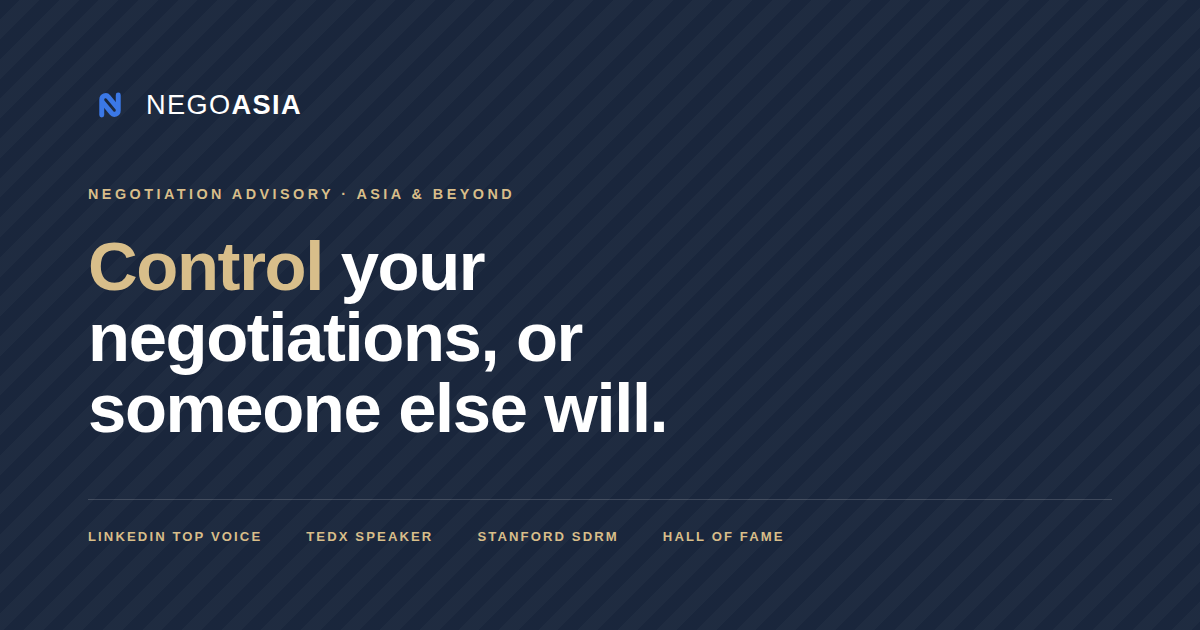
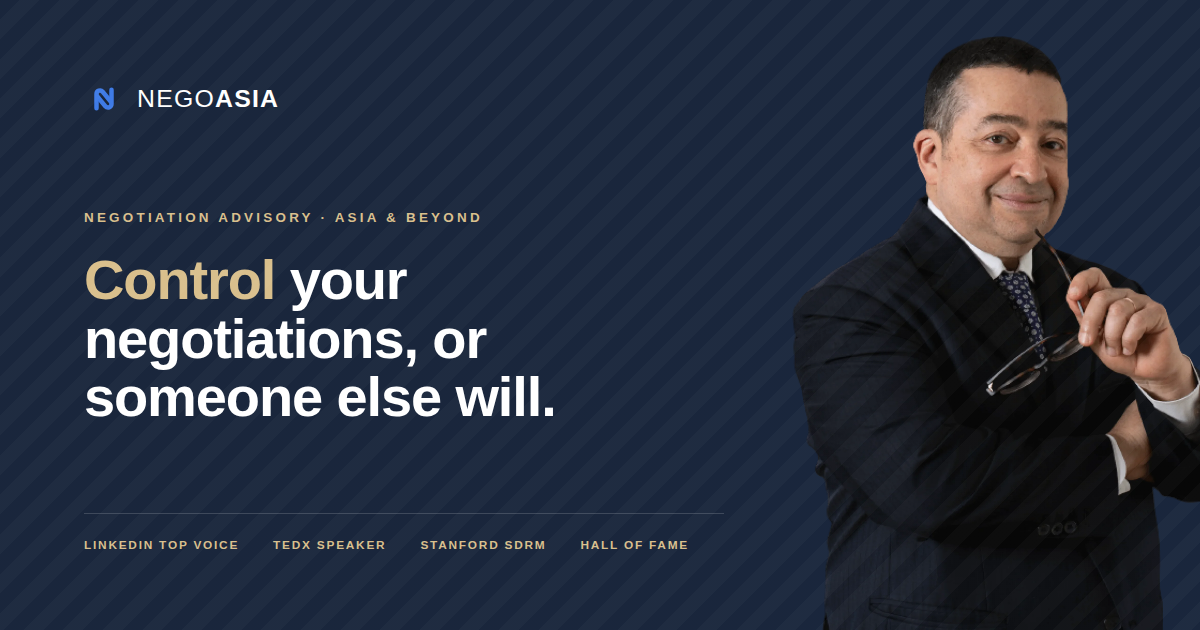
Put Nicolas's portrait on the site, move OG rendering to make_og.py

diff --git a/site/assets/css/site.css b/site/assets/css/site.css
@@ -504,3 +504,14 @@ footer{background:var(--slate-900);color:rgba(255,255,255,.7);padding:70px 0 34p
       height:1px;background:var(--gold)}
 .lang .soon{color:var(--muted);opacity:.45;cursor:default}
 @media (max-width:960px){ .lang{margin-left:auto;margin-right:.4rem} }
+
+/* ============================================================
+   Cut-out portrait. The file has a transparent background, so it
+   sits directly on the navy with no frame and no stripes — the
+   subject reads as grounded rather than pasted into a box.
+   ============================================================ */
+.photo.cutout{background:none;border:0;align-items:flex-end;justify-content:center;overflow:visible}
+.photo.cutout img{width:100%;height:100%;object-fit:contain;object-position:bottom center}
+/* Round author thumbnail: crop to the face, on a navy disc. */
+.author .photo.cutout{background:var(--slate-800);border:1px solid var(--line);overflow:hidden}
+.author .photo.cutout img{object-fit:cover;object-position:center}

diff --git a/site/management-tricks/index.html b/site/management-tricks/index.html
@@ -167,7 +167,7 @@
       </div>
 
       <div class="author">
-        <div class="photo"><div class="plabel"><b>Portrait</b><span>Nicolas Clement</span></div></div>
+        <div class="photo cutout"><img src="/assets/img/nicolas-portrait-square.webp" alt="Nicolas Clement" width="320" height="320" loading="lazy"></div>
         <div>
           <div class="author-name">Nicolas Clement</div>
           <p>Founder of NegoAsia and Global Head of the Negotiation Practice at Halifax Consulting. Thirty years of negotiations across Europe and Asia. LinkedIn Top Negotiation Voice, TEDx speaker, CEIBS visiting professor. <a href="/about/">Read the full story →</a></p>

diff --git a/site/never-take-yes-for-an-answer/index.html b/site/never-take-yes-for-an-answer/index.html
@@ -162,7 +162,7 @@
       </div>
 
       <div class="author">
-        <div class="photo"><div class="plabel"><b>Portrait</b><span>Nicolas Clement</span></div></div>
+        <div class="photo cutout"><img src="/assets/img/nicolas-portrait-square.webp" alt="Nicolas Clement" width="320" height="320" loading="lazy"></div>
         <div>
           <div class="author-name">Nicolas Clement</div>
           <p>Founder of NegoAsia and Global Head of the Negotiation Practice at Halifax Consulting. Thirty years of negotiations across Europe and Asia. LinkedIn Top Negotiation Voice, TEDx speaker, CEIBS visiting professor. <a href="/about/">Read the full story →</a></p>

diff --git a/site/tedx-nicolas-clement/index.html b/site/tedx-nicolas-clement/index.html
@@ -81,7 +81,7 @@
       </div>
 
       <div class="author">
-        <div class="photo"><div class="plabel"><b>Portrait</b><span>Nicolas Clement</span></div></div>
+        <div class="photo cutout"><img src="/assets/img/nicolas-portrait-square.webp" alt="Nicolas Clement" width="320" height="320" loading="lazy"></div>
         <div>
           <div class="author-name">Nicolas Clement</div>
           <p>Founder of NegoAsia and Global Head of the Negotiation Practice at Halifax Consulting. Thirty years of negotiations across Europe and Asia. LinkedIn Top Negotiation Voice, TEDx speaker, CEIBS visiting professor. <a href="/about/">Read the full story →</a></p>

diff --git a/site/tigers-dont-eat-salad/index.html b/site/tigers-dont-eat-salad/index.html
@@ -85,7 +85,7 @@
       </div>
 
       <div class="author">
-        <div class="photo"><div class="plabel"><b>Portrait</b><span>Nicolas Clement</span></div></div>
+        <div class="photo cutout"><img src="/assets/img/nicolas-portrait-square.webp" alt="Nicolas Clement" width="320" height="320" loading="lazy"></div>
         <div>
           <div class="author-name">Nicolas Clement</div>
           <p>Founder of NegoAsia and Global Head of the Negotiation Practice at Halifax Consulting. Thirty years of negotiations across Europe and Asia. LinkedIn Top Negotiation Voice, TEDx speaker, CEIBS visiting professor. <a href="/about/">Read the full story →</a></p>

diff --git a/templates/article.html b/templates/article.html
@@ -65,7 +65,7 @@
       </div>
 
       <div class="author">
-        <div class="photo"><div class="plabel"><b>Portrait</b><span>Nicolas Clement</span></div></div>
+        <div class="photo cutout"><img src="/assets/img/nicolas-portrait-square.webp" alt="Nicolas Clement" width="320" height="320" loading="lazy"></div>
         <div>
           <div class="author-name">Nicolas Clement</div>
           <p>Founder of NegoAsia and Global Head of the Negotiation Practice at Halifax Consulting. Thirty years of negotiations across Europe and Asia. LinkedIn Top Negotiation Voice, TEDx speaker, CEIBS visiting professor. <a href="/about/">Read the full story →</a></p>

diff --git a/site/index.html b/site/index.html
@@ -102,7 +102,7 @@
 <!-- EXPERT -->
 <section class="expert on-dark" id="expert">
   <div class="wrap expert-grid">
-    <div class="photo dark reveal"><div class="plabel"><div class="dot"></div><b>Portrait</b><span>Nicolas Clement</span></div></div>
+    <div class="photo dark cutout reveal"><img src="/assets/img/blog/nicolas-clement-image.webp" alt="Nicolas Clement, founder of NegoAsia" width="1707" height="2560" loading="lazy"></div>
     <div class="reveal">
       <span class="eyebrow">A world-class expert at your service</span>
       <h2>Two decades turning high-stakes tension into agreement</h2>

diff --git a/site/about/index.html b/site/about/index.html
@@ -57,7 +57,7 @@
         <a href="/services/" class="btn btn-ghost">See how we work</a>
       </div>
     </div>
-    <div class="photo dark reveal"><div class="plabel"><div class="dot"></div><b>Portrait</b><span>Nicolas Clement — professional headshot</span></div></div>
+    <div class="photo dark cutout reveal"><img src="/assets/img/blog/nicolas-clement-image.webp" alt="Nicolas Clement, founder of NegoAsia" width="1707" height="2560" fetchpriority="high"></div>
   </div>
 </section>
 

diff --git a/make_og.py b/make_og.py
@@ -1,0 +1,65 @@
+#!/usr/bin/env python3
+"""Render the Open Graph share image (1200x630) from Nicolas's cut-out portrait.
+
+Run this only when the portrait, the tagline or the credential strip changes.
+Deliberately separate from verify.py: a verification script must not modify
+what it verifies.
+
+    python3 make_og.py
+"""
+import functools, http.server, pathlib, socketserver, threading
+from playwright.sync_api import sync_playwright
+
+SITE = pathlib.Path(__file__).parent / "site"
+socketserver.TCPServer.allow_reuse_address = True
+httpd = socketserver.TCPServer(
+    ("", 0), functools.partial(http.server.SimpleHTTPRequestHandler, directory=str(SITE)))
+threading.Thread(target=httpd.serve_forever, daemon=True).start()
+B = "http://localhost:%d" % httpd.server_address[1]
+
+OG = ("""<!DOCTYPE html><html><head><meta charset="utf-8">
+<link rel="stylesheet" href="B/assets/css/site.css">
+<style>
+*{margin:0;padding:0;box-sizing:border-box}
+body{width:1200px;height:630px;background:#152238;color:#fff;font-family:"Libre Franklin",sans-serif;position:relative;overflow:hidden}
+/* la texture passe AU-DESSUS du degrade, sinon une arete verticale apparait */
+body::after{content:"";position:absolute;inset:0;z-index:5;pointer-events:none;
+  background:repeating-linear-gradient(135deg,rgba(255,255,255,.02) 0 14px,rgba(255,255,255,.045) 14px 28px)}
+.txt{position:absolute;inset:78px auto 74px 84px;width:640px;display:flex;flex-direction:column;justify-content:space-between;z-index:3}
+.top{display:flex;align-items:center;gap:13px}
+.top svg{width:40px;height:40px;color:#3B78E6}
+.wm{font-family:"Archivo",sans-serif;font-size:1.55rem;letter-spacing:.05em}
+.wm .t{font-weight:500}.wm b{font-weight:800}
+.eyebrow{font-size:.84rem;font-weight:700;letter-spacing:.24em;text-transform:uppercase;color:#D8BE8A;margin-bottom:22px;display:block}
+h1{font-family:"Archivo",sans-serif;font-weight:900;font-size:3.5rem;line-height:1.04;letter-spacing:-.02em}
+h1 .c{color:#D8BE8A}
+.bot{border-top:1px solid rgba(255,255,255,.16);padding-top:22px;display:flex;gap:34px;
+  font-size:.74rem;letter-spacing:.15em;text-transform:uppercase;color:#D8BE8A;font-weight:700}
+.pf{position:absolute;right:-24px;bottom:0;height:104%;z-index:1}
+.pf img{height:100%;width:auto;display:block}
+.fade{position:absolute;left:0;top:0;width:820px;height:100%;z-index:2;
+  background:linear-gradient(90deg,#152238 0%,#152238 46%,rgba(21,34,56,0) 100%)}
+</style></head><body>
+<div class="pf"><img src="B/assets/img/blog/nicolas-clement-image.webp"></div>
+<div class="fade"></div>
+<div class="txt">
+  <div class="top">
+    <svg viewBox="0 0 48 48" fill="none" stroke="currentColor" stroke-width="5.4" stroke-linecap="round" stroke-linejoin="round">
+      <path d="M15 35 V18 a4.2 4.2 0 0 1 7.4 -2.7 L32 27"/><path d="M33 13 V30 a4.2 4.2 0 0 1 -7.4 2.7 L16 21"/>
+    </svg><span class="wm"><span class="t">NEGO</span><b>ASIA</b></span>
+  </div>
+  <div>
+    <span class="eyebrow">Negotiation advisory &middot; Asia &amp; beyond</span>
+    <h1><span class="c">Control</span> your negotiations, or someone else will.</h1>
+  </div>
+  <div class="bot"><span>LinkedIn Top Voice</span><span>TEDx Speaker</span><span>Stanford SDRM</span><span>Hall of Fame</span></div>
+</div></body></html>""").replace("B/assets", B + "/assets")
+
+with sync_playwright() as p:
+    b = p.chromium.launch()
+    pg = b.new_page(viewport={"width": 1200, "height": 630})
+    pg.set_content(OG)
+    pg.wait_for_timeout(2500)
+    pg.screenshot(path=str(SITE / "assets/img/og-default.png"))
+    b.close()
+print("og-default.png rendered")

diff --git a/verify.py b/verify.py
@@ -1,5 +1,9 @@
 #!/usr/bin/env python3
-"""Render the OG image and screenshot every page (desktop + mobile) for review."""
+"""Screenshot every page (desktop + mobile), check links and console errors.
+
+Read-only by design: this script must never write into site/. Generating the
+Open Graph image used to live here and silently overwrote it on every run —
+that job now belongs to make_og.py."""
 import http.server, socketserver, threading, functools, pathlib, sys
 from playwright.sync_api import sync_playwright
 
@@ -45,47 +49,8 @@ PAGES = [
     ("404", "/404.html"),
 ]
 
-OG_HTML = """<!DOCTYPE html><html><head><meta charset="utf-8">
-<link rel="stylesheet" href="__CSS__">
-<style>
-*{margin:0;padding:0;box-sizing:border-box}
-body{width:1200px;height:630px;background:#152238;color:#fff;font-family:"Libre Franklin",sans-serif;
-     padding:82px 88px;display:flex;flex-direction:column;justify-content:space-between;position:relative;overflow:hidden}
-body::after{content:"";position:absolute;inset:0;background:repeating-linear-gradient(135deg,rgba(255,255,255,.02) 0 14px,rgba(255,255,255,.045) 14px 28px);pointer-events:none}
-.top{display:flex;align-items:center;gap:14px;position:relative;z-index:1}
-.top svg{width:44px;height:44px;color:#3B78E6}
-.wm{font-family:"Archivo",sans-serif;font-size:1.7rem;letter-spacing:.05em}
-.wm .t{font-weight:500}.wm b{font-weight:800}
-.eyebrow{font-size:.9rem;font-weight:700;letter-spacing:.24em;text-transform:uppercase;color:#D8BE8A;margin-bottom:26px;display:block}
-h1{font-family:"Archivo",sans-serif;font-weight:900;font-size:4.3rem;line-height:1.03;letter-spacing:-.02em;max-width:17ch}
-h1 .c{color:#D8BE8A}
-.mid{position:relative;z-index:1}
-.bot{border-top:1px solid rgba(255,255,255,.16);padding-top:26px;display:flex;gap:44px;
-     font-size:.82rem;letter-spacing:.16em;text-transform:uppercase;color:#D8BE8A;font-weight:700;position:relative;z-index:1}
-</style></head><body>
-<div class="top">
-  <svg viewBox="0 0 48 48" fill="none" stroke="currentColor" stroke-width="5.4" stroke-linecap="round" stroke-linejoin="round">
-    <path d="M15 35 V18 a4.2 4.2 0 0 1 7.4 -2.7 L32 27"/><path d="M33 13 V30 a4.2 4.2 0 0 1 -7.4 2.7 L16 21"/>
-  </svg>
-  <span class="wm"><span class="t">NEGO</span><b>ASIA</b></span>
-</div>
-<div class="mid">
-  <span class="eyebrow">Negotiation advisory · Asia &amp; beyond</span>
-  <h1><span class="c">Control</span> your negotiations, or someone else will.</h1>
-</div>
-<div class="bot"><span>LinkedIn Top Voice</span><span>TEDx Speaker</span><span>Stanford SDRM</span><span>Hall of Fame</span></div>
-</body></html>"""
-
 with sync_playwright() as p:
     b = p.chromium.launch()
-
-    # --- Open Graph image, rendered with the real brand fonts ---
-    pg = b.new_page(viewport={"width": 1200, "height": 630}, device_scale_factor=1)
-    pg.set_content(OG_HTML.replace("__CSS__", BASE + "/assets/css/site.css"))
-    pg.wait_for_timeout(2500)
-    pg.screenshot(path=str(SITE / "assets/img/og-default.png"))
-    pg.close()
-    print("og-default.png rendered")
 
     errors = []
     for name, path in PAGES:

diff --git a/CLAUDE.md b/CLAUDE.md
@@ -30,7 +30,8 @@ content/pages/*.json      ← métadonnées SEO des 7 pages fixes (idem)
 templates/                ← gabarits article + index Insights
 build.py                  ← content/ + templates/ → site/
 site/                     ← ce qui est publié (HTML généré ET pages écrites à la main)
-verify.py                 ← captures desktop/mobile, liens, erreurs JS
+verify.py                 ← captures desktop/mobile, liens, erreurs JS (LECTURE SEULE)
+make_og.py                ← régénère l'image de partage Open Graph
 audit.py                  ← contrôle SEO technique + densité de tirets cadratins
 ```
 
@@ -61,7 +62,10 @@ Les pages Home, About, Services, Contact, Terms, Privacy, `/ai/` et 404 sont du 
 6. **Le sélecteur de langue** (`.lang` dans l'en-tête) affiche EN actif et FR inerte.
    En phase 2, FR devient un lien vers `/fr/` et le `<span class="soon">` devient un `<a>`.
    Codes texte et non drapeaux : un drapeau désigne un pays, pas une langue.
-7. **Sur Windows** : `git config core.fileMode false` est déjà posé, sinon OneDrive fait
+7. **`verify.py` ne doit jamais écrire dans `site/`.** Il générait autrefois l'image
+   Open Graph et l'écrasait silencieusement à chaque exécution ; ce travail est passé
+   dans `make_og.py`. Un script de vérification qui modifie ce qu'il vérifie ment.
+8. **Sur Windows** : `git config core.fileMode false` est déjà posé, sinon OneDrive fait
    apparaître tous les fichiers comme modifiés.
 
 ## Design system

diff --git a/site/assets/img/MEDIA-TO-IMPORT.md b/site/assets/img/MEDIA-TO-IMPORT.md
@@ -18,9 +18,16 @@ stop working and the originals are only recoverable from the WordPress backup.
 | `10-rules.webp` | https://www.negoasia.com/wp-content/uploads/2023/09/Rectangle-21-1.webp | `/management-tricks/` (hero), `/blog/` (card) |
 | `logo-negoasia.webp` | https://www.negoasia.com/wp-content/uploads/2023/09/Group-11-min.webp | old site logo — for reference only |
 
+## Received
+
+- ✅ **Professional portrait** — `blog/nicolas-clement-image.webp`, 1707 × 2560, cut out
+  on a transparent background. Uploaded through the CMS media library on 2026-08-01.
+  In use on the About hero, the home Expert section, every article author box, and the
+  Open Graph share image. A 320 × 320 face crop is derived from it at
+  `nicolas-portrait-square.webp` — regenerate it if the source portrait ever changes.
+
 ## Still needed from Nicolas (not on the old site)
 
-- Professional portrait, high resolution — **priority #1** for the premium feel.
-- Atmosphere photos: in session, on stage, in the boardroom, in Asia.
+- Atmosphere photos: in session, on stage, in the boardroom, in Asia. One slot is still
+  a placeholder, in the Credentials section of the About page.
 - Vector logo (SVG / AI / EPS).
-- A real Open Graph image (1200 × 630) to replace `assets/img/og-default.png`.
